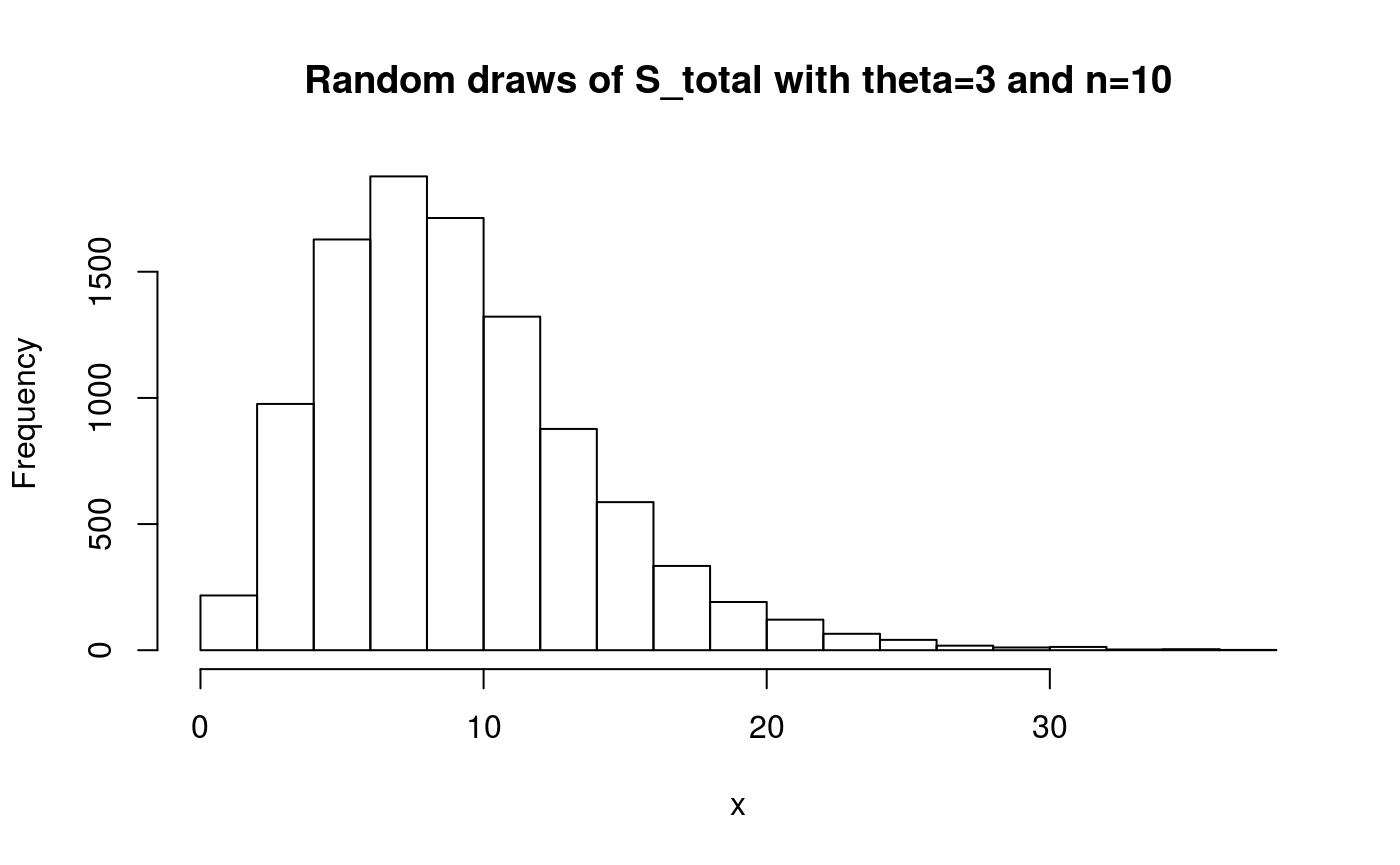
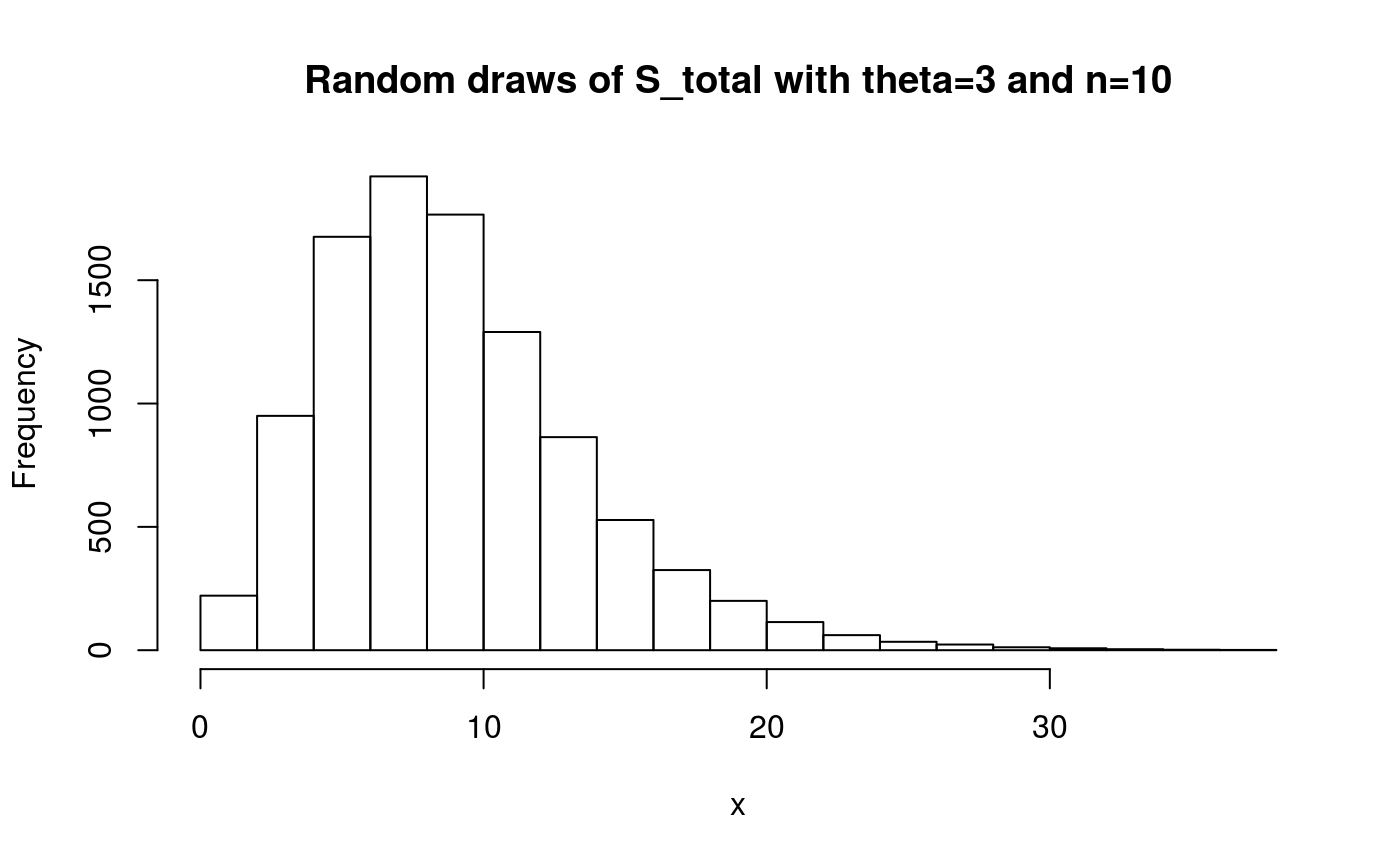
Updated readme.

diff --git a/docs/articles/ticphasetype.html b/docs/articles/ticphasetype.html
@@ -173,11 +173,11 @@
 <a class="sourceLine" id="cb8-12" data-line-number="12"></a>
 <a class="sourceLine" id="cb8-13" data-line-number="13">subint_arbit[n<span class="dv">-1</span>,n<span class="dv">-1</span>] &lt;-<span class="st"> </span><span class="dv">-1</span></a></code></pre></div>
 <div class="sourceCode" id="cb9"><pre class="sourceCode r"><code class="sourceCode r"><a class="sourceLine" id="cb9-1" data-line-number="1">subint_arbit</a>
-<a class="sourceLine" id="cb9-2" data-line-number="2"><span class="co">#&gt;          [,1]       [,2]      [,3]      [,4]</span></a>
-<a class="sourceLine" id="cb9-3" data-line-number="3"><span class="co">#&gt; [1,] -15.9908   5.164984  3.822518  7.003298</span></a>
-<a class="sourceLine" id="cb9-4" data-line-number="4"><span class="co">#&gt; [2,]   0.0000 -15.763747  8.518511  7.245237</span></a>
-<a class="sourceLine" id="cb9-5" data-line-number="5"><span class="co">#&gt; [3,]   0.0000   0.000000 -8.762304  8.762304</span></a>
-<a class="sourceLine" id="cb9-6" data-line-number="6"><span class="co">#&gt; [4,]   0.0000   0.000000  0.000000 -1.000000</span></a></code></pre></div>
+<a class="sourceLine" id="cb9-2" data-line-number="2"><span class="co">#&gt;           [,1]     [,2]      [,3]      [,4]</span></a>
+<a class="sourceLine" id="cb9-3" data-line-number="3"><span class="co">#&gt; [1,] -14.76009  3.07134  8.627879  3.060869</span></a>
+<a class="sourceLine" id="cb9-4" data-line-number="4"><span class="co">#&gt; [2,]   0.00000 -5.20337  4.130822  1.072549</span></a>
+<a class="sourceLine" id="cb9-5" data-line-number="5"><span class="co">#&gt; [3,]   0.00000  0.00000 -4.982667  4.982667</span></a>
+<a class="sourceLine" id="cb9-6" data-line-number="6"><span class="co">#&gt; [4,]   0.00000  0.00000  0.000000 -1.000000</span></a></code></pre></div>
 <p>This matrix can be supplied to the <code><a href="../reference/cont_phase_type.html">cont_phase_type()</a></code> generator function, together with optional initial probabilities:</p>
 <div class="sourceCode" id="cb10"><pre class="sourceCode r"><code class="sourceCode r"><a class="sourceLine" id="cb10-1" data-line-number="1">T_arbit_ph &lt;-<span class="st"> </span><span class="kw"><a href="../reference/cont_phase_type.html">cont_phase_type</a></span>(<span class="dt">subint_mat =</span> subint_arbit)</a>
 <a class="sourceLine" id="cb10-2" data-line-number="2"><span class="co">#&gt; Warning in cont_phase_type(subint_mat = subint_arbit): The initial</span></a>
@@ -187,11 +187,11 @@
 <div class="sourceCode" id="cb11"><pre class="sourceCode r"><code class="sourceCode r"><a class="sourceLine" id="cb11-1" data-line-number="1"><span class="kw"><a href="https://rdrr.io/r/base/summary.html">summary</a></span>(T_arbit_ph)</a>
 <a class="sourceLine" id="cb11-2" data-line-number="2"><span class="co">#&gt; </span></a>
 <a class="sourceLine" id="cb11-3" data-line-number="3"><span class="co">#&gt; Subintensity matrix:</span></a>
-<a class="sourceLine" id="cb11-4" data-line-number="4"><span class="co">#&gt;          [,1]       [,2]      [,3]      [,4]</span></a>
-<a class="sourceLine" id="cb11-5" data-line-number="5"><span class="co">#&gt; [1,] -15.9908   5.164984  3.822518  7.003298</span></a>
-<a class="sourceLine" id="cb11-6" data-line-number="6"><span class="co">#&gt; [2,]   0.0000 -15.763747  8.518511  7.245237</span></a>
-<a class="sourceLine" id="cb11-7" data-line-number="7"><span class="co">#&gt; [3,]   0.0000   0.000000 -8.762304  8.762304</span></a>
-<a class="sourceLine" id="cb11-8" data-line-number="8"><span class="co">#&gt; [4,]   0.0000   0.000000  0.000000 -1.000000</span></a>
+<a class="sourceLine" id="cb11-4" data-line-number="4"><span class="co">#&gt;           [,1]     [,2]      [,3]      [,4]</span></a>
+<a class="sourceLine" id="cb11-5" data-line-number="5"><span class="co">#&gt; [1,] -14.76009  3.07134  8.627879  3.060869</span></a>
+<a class="sourceLine" id="cb11-6" data-line-number="6"><span class="co">#&gt; [2,]   0.00000 -5.20337  4.130822  1.072549</span></a>
+<a class="sourceLine" id="cb11-7" data-line-number="7"><span class="co">#&gt; [3,]   0.00000  0.00000 -4.982667  4.982667</span></a>
+<a class="sourceLine" id="cb11-8" data-line-number="8"><span class="co">#&gt; [4,]   0.00000  0.00000  0.000000 -1.000000</span></a>
 <a class="sourceLine" id="cb11-9" data-line-number="9"><span class="co">#&gt; </span></a>
 <a class="sourceLine" id="cb11-10" data-line-number="10"><span class="co">#&gt; Initial probabilities:</span></a>
 <a class="sourceLine" id="cb11-11" data-line-number="11"><span class="co">#&gt;      [,1] [,2] [,3] [,4]</span></a>
@@ -200,9 +200,9 @@
 <a class="sourceLine" id="cb11-14" data-line-number="14"><span class="co">#&gt; Defect:</span></a>
 <a class="sourceLine" id="cb11-15" data-line-number="15"><span class="co">#&gt; [1] 0</span></a>
 <a class="sourceLine" id="cb11-16" data-line-number="16"><span class="co">#&gt; </span></a>
-<a class="sourceLine" id="cb11-17" data-line-number="17"><span class="co">#&gt; Mean: 1.130227</span></a>
+<a class="sourceLine" id="cb11-17" data-line-number="17"><span class="co">#&gt; Mean: 1.258209</span></a>
 <a class="sourceLine" id="cb11-18" data-line-number="18"><span class="co">#&gt; </span></a>
-<a class="sourceLine" id="cb11-19" data-line-number="19"><span class="co">#&gt; Variance: 1.015229</span></a></code></pre></div>
+<a class="sourceLine" id="cb11-19" data-line-number="19"><span class="co">#&gt; Variance: 1.056826</span></a></code></pre></div>
 </div>
 <div id="density-distribution-and-quantile-functions" class="section level2">
 <h2 class="hasAnchor">
@@ -233,7 +233,7 @@
 <a class="sourceLine" id="cb17-5" data-line-number="5"><span class="kw"><a href="https://rdrr.io/r/graphics/title.html">title</a></span>(<span class="st">'Distribution function of T_MRCA'</span>)</a></code></pre></div>
 <p><img src="ticphasetype_files/figure-html/unnamed-chunk-17-1.png" width="700"></p>
 <div class="sourceCode" id="cb18"><pre class="sourceCode r"><code class="sourceCode r"><a class="sourceLine" id="cb18-1" data-line-number="1"><span class="kw"><a href="../reference/dphtype.html">rphtype</a></span>(<span class="dv">3</span>, T_MRCA_ph)</a>
-<a class="sourceLine" id="cb18-2" data-line-number="2"><span class="co">#&gt; [1] 0.7224496 2.2957158 1.8375268</span></a></code></pre></div>
+<a class="sourceLine" id="cb18-2" data-line-number="2"><span class="co">#&gt; [1] 1.5811542 0.1840773 2.2946099</span></a></code></pre></div>
 <div class="sourceCode" id="cb19"><pre class="sourceCode r"><code class="sourceCode r"><a class="sourceLine" id="cb19-1" data-line-number="1">x &lt;-<span class="st"> </span><span class="kw"><a href="../reference/dphtype.html">rphtype</a></span>(<span class="dv">10000</span>, T_MRCA_ph)</a>
 <a class="sourceLine" id="cb19-2" data-line-number="2"><span class="kw"><a href="https://rdrr.io/r/graphics/hist.html">hist</a></span>(x, <span class="dt">main =</span> <span class="st">'Random draws of T_MRCA'</span>, <span class="dt">breaks=</span><span class="dv">20</span>)</a></code></pre></div>
 <p><img src="ticphasetype_files/figure-html/unnamed-chunk-19-1.png" width="700"></p>
@@ -408,7 +408,7 @@
 <a class="sourceLine" id="cb31-5" data-line-number="5"><span class="kw"><a href="https://rdrr.io/r/graphics/title.html">title</a></span>(<span class="st">'Quantile function of S_total with theta=3 and n=10'</span>)</a></code></pre></div>
 <p><img src="ticphasetype_files/figure-html/unnamed-chunk-31-1.png" width="700"></p>
 <div class="sourceCode" id="cb32"><pre class="sourceCode r"><code class="sourceCode r"><a class="sourceLine" id="cb32-1" data-line-number="1"><span class="kw"><a href="../reference/dphtype.html">rphtype</a></span>(<span class="dv">3</span>, S_tot_ph)</a>
-<a class="sourceLine" id="cb32-2" data-line-number="2"><span class="co">#&gt; [1] 12 18  6</span></a></code></pre></div>
+<a class="sourceLine" id="cb32-2" data-line-number="2"><span class="co">#&gt; [1] 5 8 8</span></a></code></pre></div>
 <div class="sourceCode" id="cb33"><pre class="sourceCode r"><code class="sourceCode r"><a class="sourceLine" id="cb33-1" data-line-number="1">x &lt;-<span class="st"> </span><span class="kw"><a href="../reference/dphtype.html">rphtype</a></span>(<span class="dv">10000</span>, S_tot_ph)</a>
 <a class="sourceLine" id="cb33-2" data-line-number="2"><span class="kw"><a href="https://rdrr.io/r/graphics/hist.html">hist</a></span>(x, <span class="dt">main =</span> <span class="st">'Random draws of S_total with theta=3 and n=10'</span>, <span class="dt">breaks=</span><span class="dv">20</span>)</a></code></pre></div>
 <p><img src="ticphasetype_files/figure-html/unnamed-chunk-33-1.png" width="700"></p>

diff --git a/docs/index.html b/docs/index.html
@@ -74,48 +74,15 @@
 <div class="page-header"><h1 class="hasAnchor">
 <a href="#ticphasetype-build-status" class="anchor"></a>ticphasetype <a href="https://travis-ci.com/aumath-advancedr2019/ticphasetype"><img src="https://travis-ci.com/aumath-advancedr2019/ticphasetype.svg?branch=master" alt="Build Status"></a>
 </h1></div>
-<div id="outline-for-package" class="section level2">
+<p>This package implements core functions from phase-type theory that are useful in the analysis of biological data.</p>
+<div id="details" class="section level2">
 <h2 class="hasAnchor">
-<a href="#outline-for-package" class="anchor"></a>Outline for package</h2>
-<div id="density-cummulative-probability-quantile-function-and-random-generator-for-continuous-and-discrete-phase-type-distributions" class="section level3">
-<h3 class="hasAnchor">
-<a href="#density-cummulative-probability-quantile-function-and-random-generator-for-continuous-and-discrete-phase-type-distributions" class="anchor"></a>Density, cummulative probability, quantile function and random generator for continuous and discrete phase-type distributions:</h3>
-<ul>
-<li>dphasetype()</li>
-<li>pphasetype()</li>
-<li>qphasetype()</li>
-<li>rphasetype()</li>
-</ul>
-</div>
-<div id="phase-type-matrices-for-basic-kingsman-coalescent" class="section level3">
-<h3 class="hasAnchor">
-<a href="#phase-type-matrices-for-basic-kingsman-coalescent" class="anchor"></a>Phase-Type matrices for basic Kingsman Coalescent</h3>
-<ul>
-<li>T_mrca</li>
-<li>T_total</li>
-<li>Kingsman</li>
-</ul>
-</div>
-<div id="phase-type-representation-of-different-summary-statistics" class="section level3">
-<h3 class="hasAnchor">
-<a href="#phase-type-representation-of-different-summary-statistics" class="anchor"></a>Phase-type representation of different summary statistics</h3>
-<ul>
-<li>mean and variance</li>
-<li>S_total</li>
-<li>i-tons</li>
-<li>tail statistic</li>
-<li>sfs (site frequency spectrum)</li>
-</ul>
-</div>
-</div>
-<div id="roles" class="section level2">
-<h2 class="hasAnchor">
-<a href="#roles" class="anchor"></a>Roles</h2>
-<ul>
-<li>pm: Iker.</li>
-<li>de: Carl.</li>
-<li>qe: Tomas.</li>
-</ul>
+<a href="#details" class="anchor"></a>Details</h2>
+<p>ticphasetype contains several functions for representing statistics that are commonly used in population genomics. <code><a href="reference/t_mrca.html">t_mrca()</a></code> and <code><a href="reference/t_total.html">t_total()</a></code> can be used for modelling the time until the most recent common ancestor and the total tree length for Kingman’s coalescence using a user-friendly interface. These two quantities are represented using a discrete phase-type distribution (the <code>cont_phase_type</code> class). The user can use the generator function for this class if they want phase-type representations based on other coalescent models.</p>
+<p>On the other hand, ticphasetype can also model the mutational process. The package contains a generator function for the block counting process of Kingsman’s coalescent (<code><a href="reference/kingsman.html">kingsman()</a></code>). By reward-transforming this continuous phase-type representation, ticphasetype creates discrete phase-type distributions of singletons, doubletons and related statistics (<code><a href="reference/itons.html">itons()</a></code>), for the total number of segregating sites (<code><a href="reference/segsites.html">segsites()</a></code>), and for the tail statistic (<code><a href="reference/tailstat.html">tailstat()</a></code>). All these quantities are represented using the <code><a href="reference/disc_phase_type.html">disc_phase_type()</a></code> class, whose generator function can also be used for user-tailored discrete phase-type distributions.</p>
+<p>The mean and the variance of the any phase-type representation can easily be computed using <code><a href="https://rdrr.io/r/base/mean.html">mean()</a></code> and <code><a href="reference/var.html">var()</a></code> respectively. Moreover, a readable summary of a distribution can be obtained using the generic function <code><a href="https://rdrr.io/r/base/summary.html">summary()</a></code>.</p>
+<p>This package also contains functions for the density (<code><a href="reference/dphtype.html">dphtype()</a></code>), quantiles (<code><a href="reference/dphtype.html">qphtype()</a></code>), distribution (<code><a href="reference/dphtype.html">pphtype()</a></code>) and random draw generator (<code><a href="reference/dphtype.html">rphtype()</a></code>) for both discrete and continuous phase-type distributions. Additionally, the user can calculate and plot the site-frequency spectrum using <code><a href="reference/sfs.html">sfs()</a></code>.</p>
+<p>The vignette for the package can be consulted <a href="https://aumath-advancedr2019.github.io/ticphasetype/articles/ticphasetype.html">here</a>. For a quick overview of all included functions, please visit <a href="https://aumath-advancedr2019.github.io/ticphasetype/reference/index.html">this link</a>.</p>
 </div>
 <div id="installation" class="section level2">
 <h2 class="hasAnchor">

diff --git a/README.md b/README.md
@@ -1,34 +1,18 @@
 # ticphasetype [![Build Status](https://travis-ci.com/aumath-advancedr2019/ticphasetype.svg?branch=master)](https://travis-ci.com/aumath-advancedr2019/ticphasetype)
 
-## Outline for package
+This package implements core functions from phase-type theory that are useful in the analysis of biological data.
 
-### Density, cummulative probability, quantile function and random generator for continuous and discrete phase-type distributions:
-* dphasetype()
-* pphasetype()
-* qphasetype()
-* rphasetype()
+## Details
 
-### Phase-Type matrices for basic Kingsman Coalescent 
-* T_mrca 
-* T_total 
-* Kingsman
+ticphasetype contains several functions for representing statistics that are commonly used in population genomics. `t_mrca()` and `t_total()` can be used for modelling the time until the most recent common ancestor and the total tree length for Kingman's coalescence using a user-friendly interface. These two quantities are represented using a discrete phase-type distribution (the `cont_phase_type` class). The user can use the generator function for this class if they want phase-type representations based on other coalescent models.
 
-### Phase-type representation of different summary statistics 
-* mean and variance
-* S_total 
-* i-tons 
-* tail statistic 
-* sfs (site frequency spectrum)
+On the other hand, ticphasetype can also model the mutational process. The package contains a generator function for the block counting process of Kingsman's coalescent (`kingsman()`). By reward-transforming this continuous phase-type representation, ticphasetype creates discrete phase-type distributions of singletons, doubletons and related statistics (`itons()`), for the total number of segregating sites (`segsites()`), and for the tail statistic (`tailstat()`). All these quantities are represented using the `disc_phase_type()` class, whose generator function can also be used for user-tailored discrete phase-type distributions.
 
-## Roles
+The mean and the variance of the any phase-type representation can easily be computed using `mean()` and `var()` respectively. Moreover, a readable summary of a distribution can be obtained using the generic function `summary()`.
 
-* pm: Iker.
-* de: Carl.
-* qe: Tomas. 
+This package also contains functions for the density (`dphtype()`), quantiles (`qphtype()`), distribution (`pphtype()`) and random draw generator (`rphtype()`) for both discrete and continuous phase-type distributions. Additionally, the user can calculate and plot the site-frequency spectrum using `sfs()`.
 
-
-
-
+The vignette for the package can be consulted [here](https://aumath-advancedr2019.github.io/ticphasetype/articles/ticphasetype.html). For a quick overview of all included functions, please visit [this link](https://aumath-advancedr2019.github.io/ticphasetype/reference/index.html). 
 
 ## Installation
 
